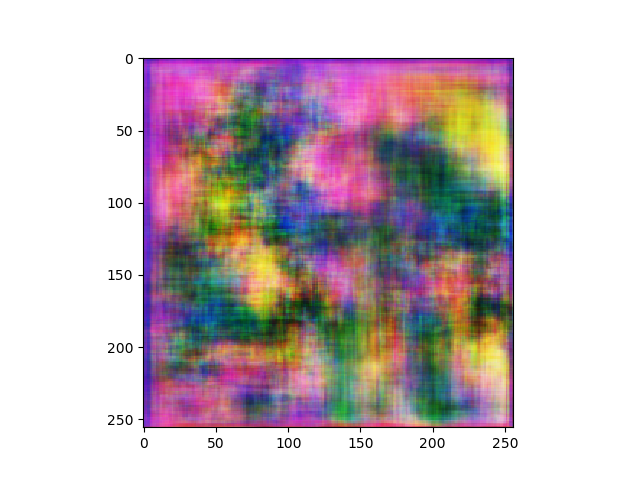
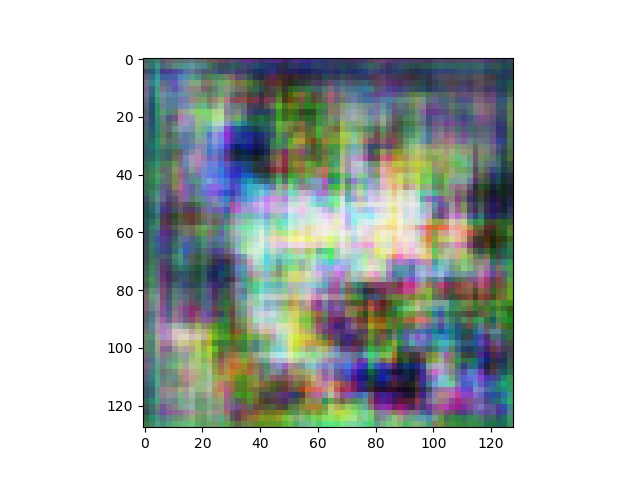
images

diff --git a/models/generativeAdversarial.py b/models/generativeAdversarial.py
@@ -39,10 +39,17 @@ class model_guard(object):
     def __exit__(self, exc_type, exc_value, traceback):
         self.model.trainable = True
         for layer in self.model.layers:
-            layer.trainable = True
-
+            layer.trainable = Truesad
 class GAN_Model(object):
-    #inspired mostly by https://medium.com/towards-data-science/gan-by-example-using-keras-on-tensorflow-backend-1a6d515a60d0
+    #inspired mostly by https:/medium.com/towards-data-science/gan-by-example-using-keras-on-tensorflow-backend-1a6d515a60d0
+    def residual_block(self, conv_scale, conv_radius=6, relu=True, scale=2):
+        t = Sequential()
+        t.add(Conv2DTranspose(self.filter_dim * conv_scale, conv_radius, padding='same'))
+        t.add(BatchNormalization(momentum=self.momentum))
+        if relu:
+            t.add(Activation('relu'))
+        t.add(UpSampling2D(scale))
+        return t
     def generator_model(self):
         #Input: 64 floats
         #Output: 256x256x3 floats
@@ -51,22 +58,10 @@ class GAN_Model(object):
         model.add(BatchNormalization(momentum=self.momentum))
         model.add(Dropout(self.dropout))
         model.add(UpSampling2D(2))
-        model.add(Conv2DTranspose(self.filter_dim, 6, padding='same'))
-        model.add(BatchNormalization(momentum=self.momentum))
-        model.add(Activation('relu'))
-        model.add(UpSampling2D(2))
-        model.add(Conv2DTranspose(self.filter_dim*2, 6, padding='same'))
-        model.add(BatchNormalization(momentum=self.momentum))
-        model.add(Activation('relu'))
-        model.add(UpSampling2D(2))
-        model.add(Conv2DTranspose(self.filter_dim*4, 6, padding='same'))
-        model.add(BatchNormalization(momentum=self.momentum))
-        model.add(Activation('relu'))
-        model.add(UpSampling2D(2))
-        model.add(Conv2DTranspose(self.filter_dim*8, 6, padding='same'))
-        model.add(BatchNormalization(momentum=self.momentum))
-        model.add(Activation('relu'))
-        model.add(UpSampling2D(2))
+        model.add(self.residual_block(1))
+        model.add(self.residual_block(2))
+        model.add(self.residual_block(4))
+        model.add(self.residual_block(8))
         model.add(Conv2DTranspose(3, 3, padding='same'))
         model.add(Activation('sigmoid'))
         return model
